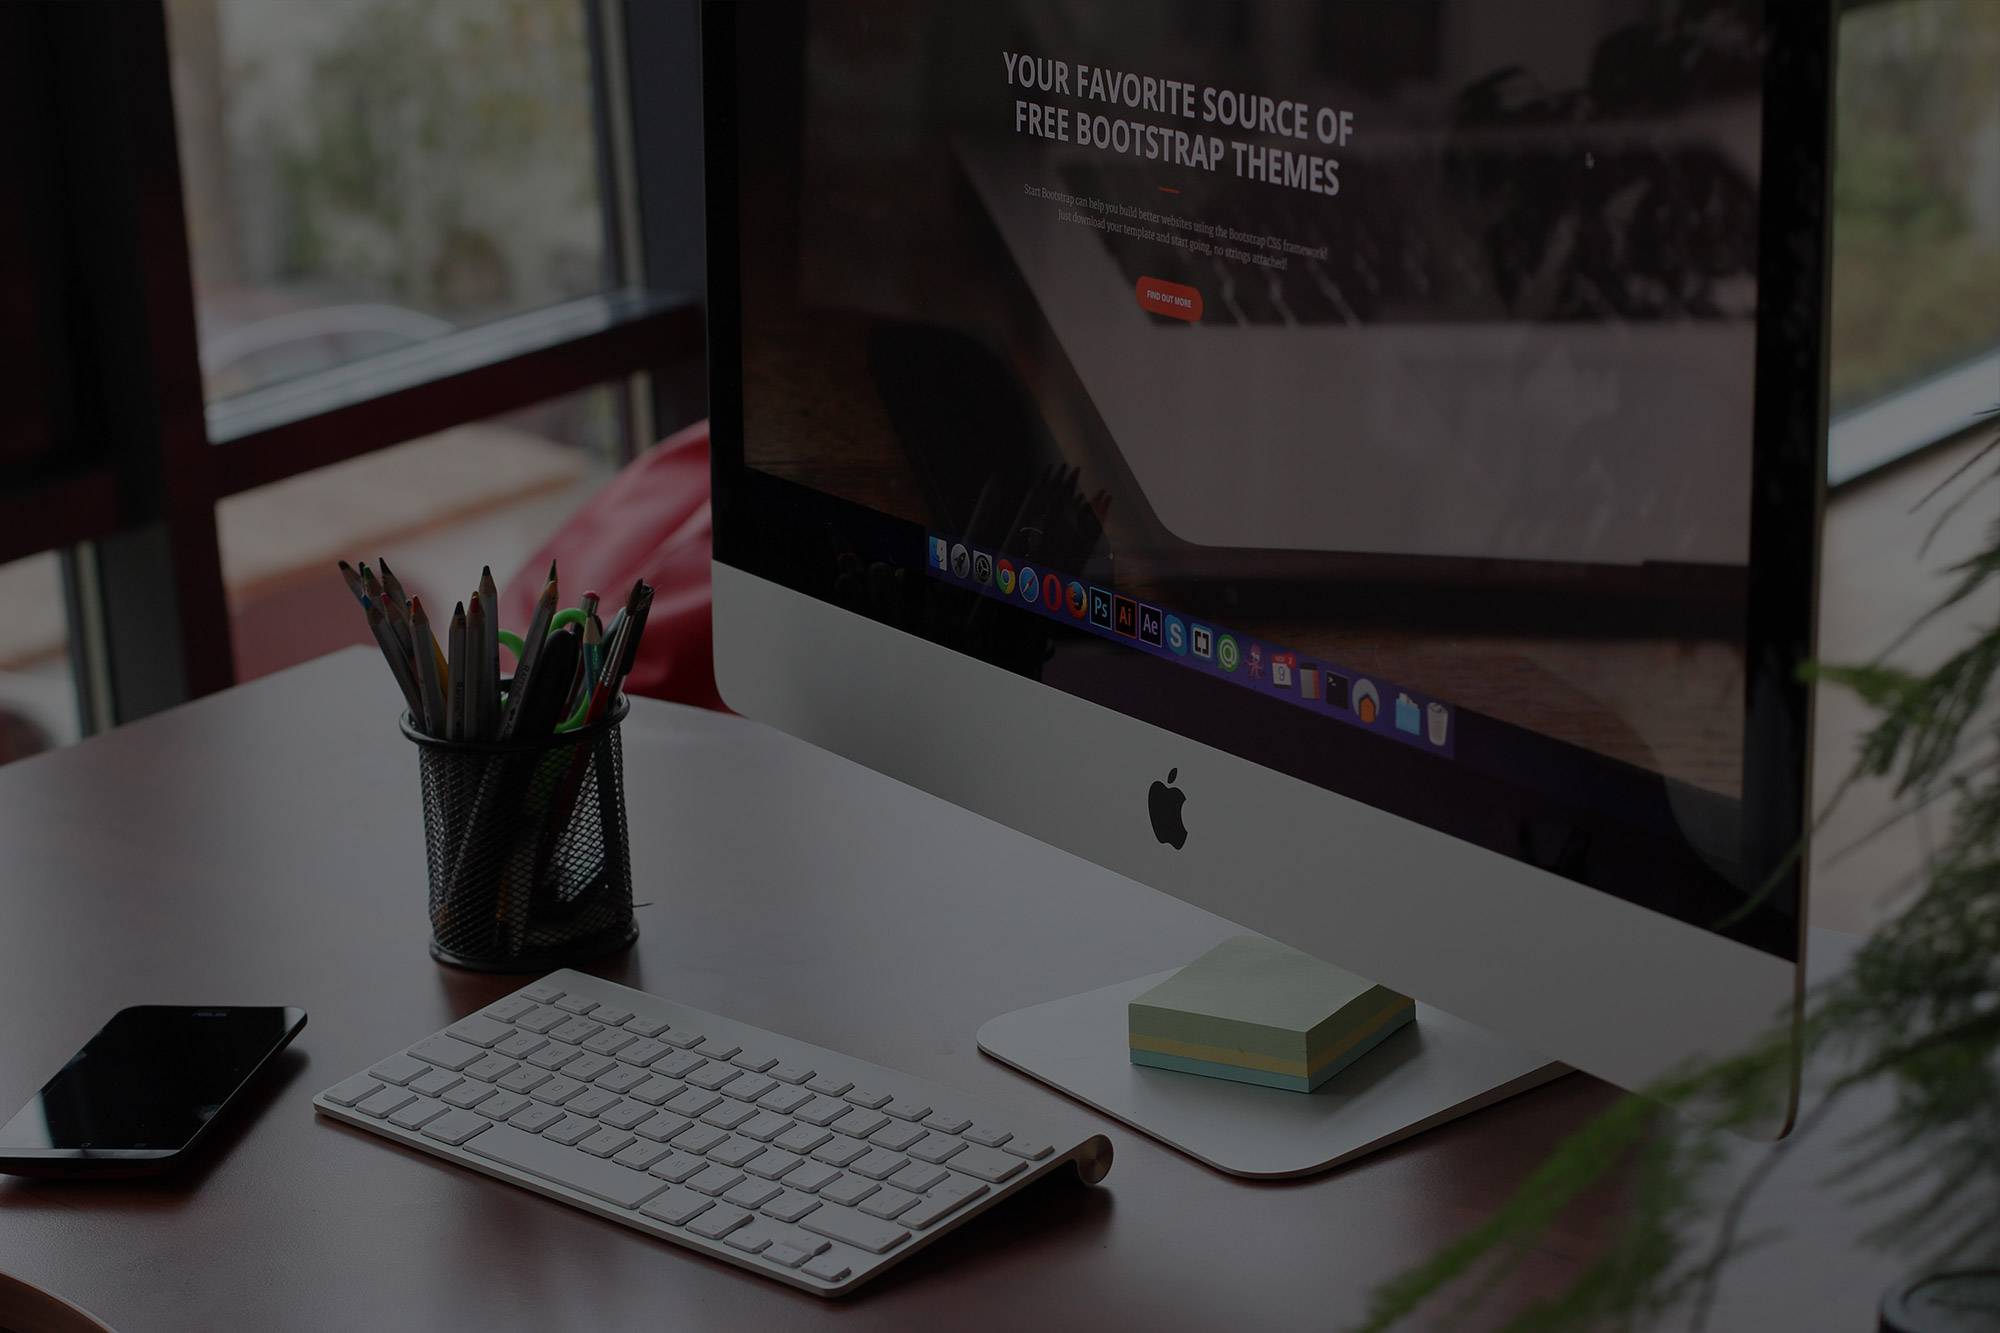
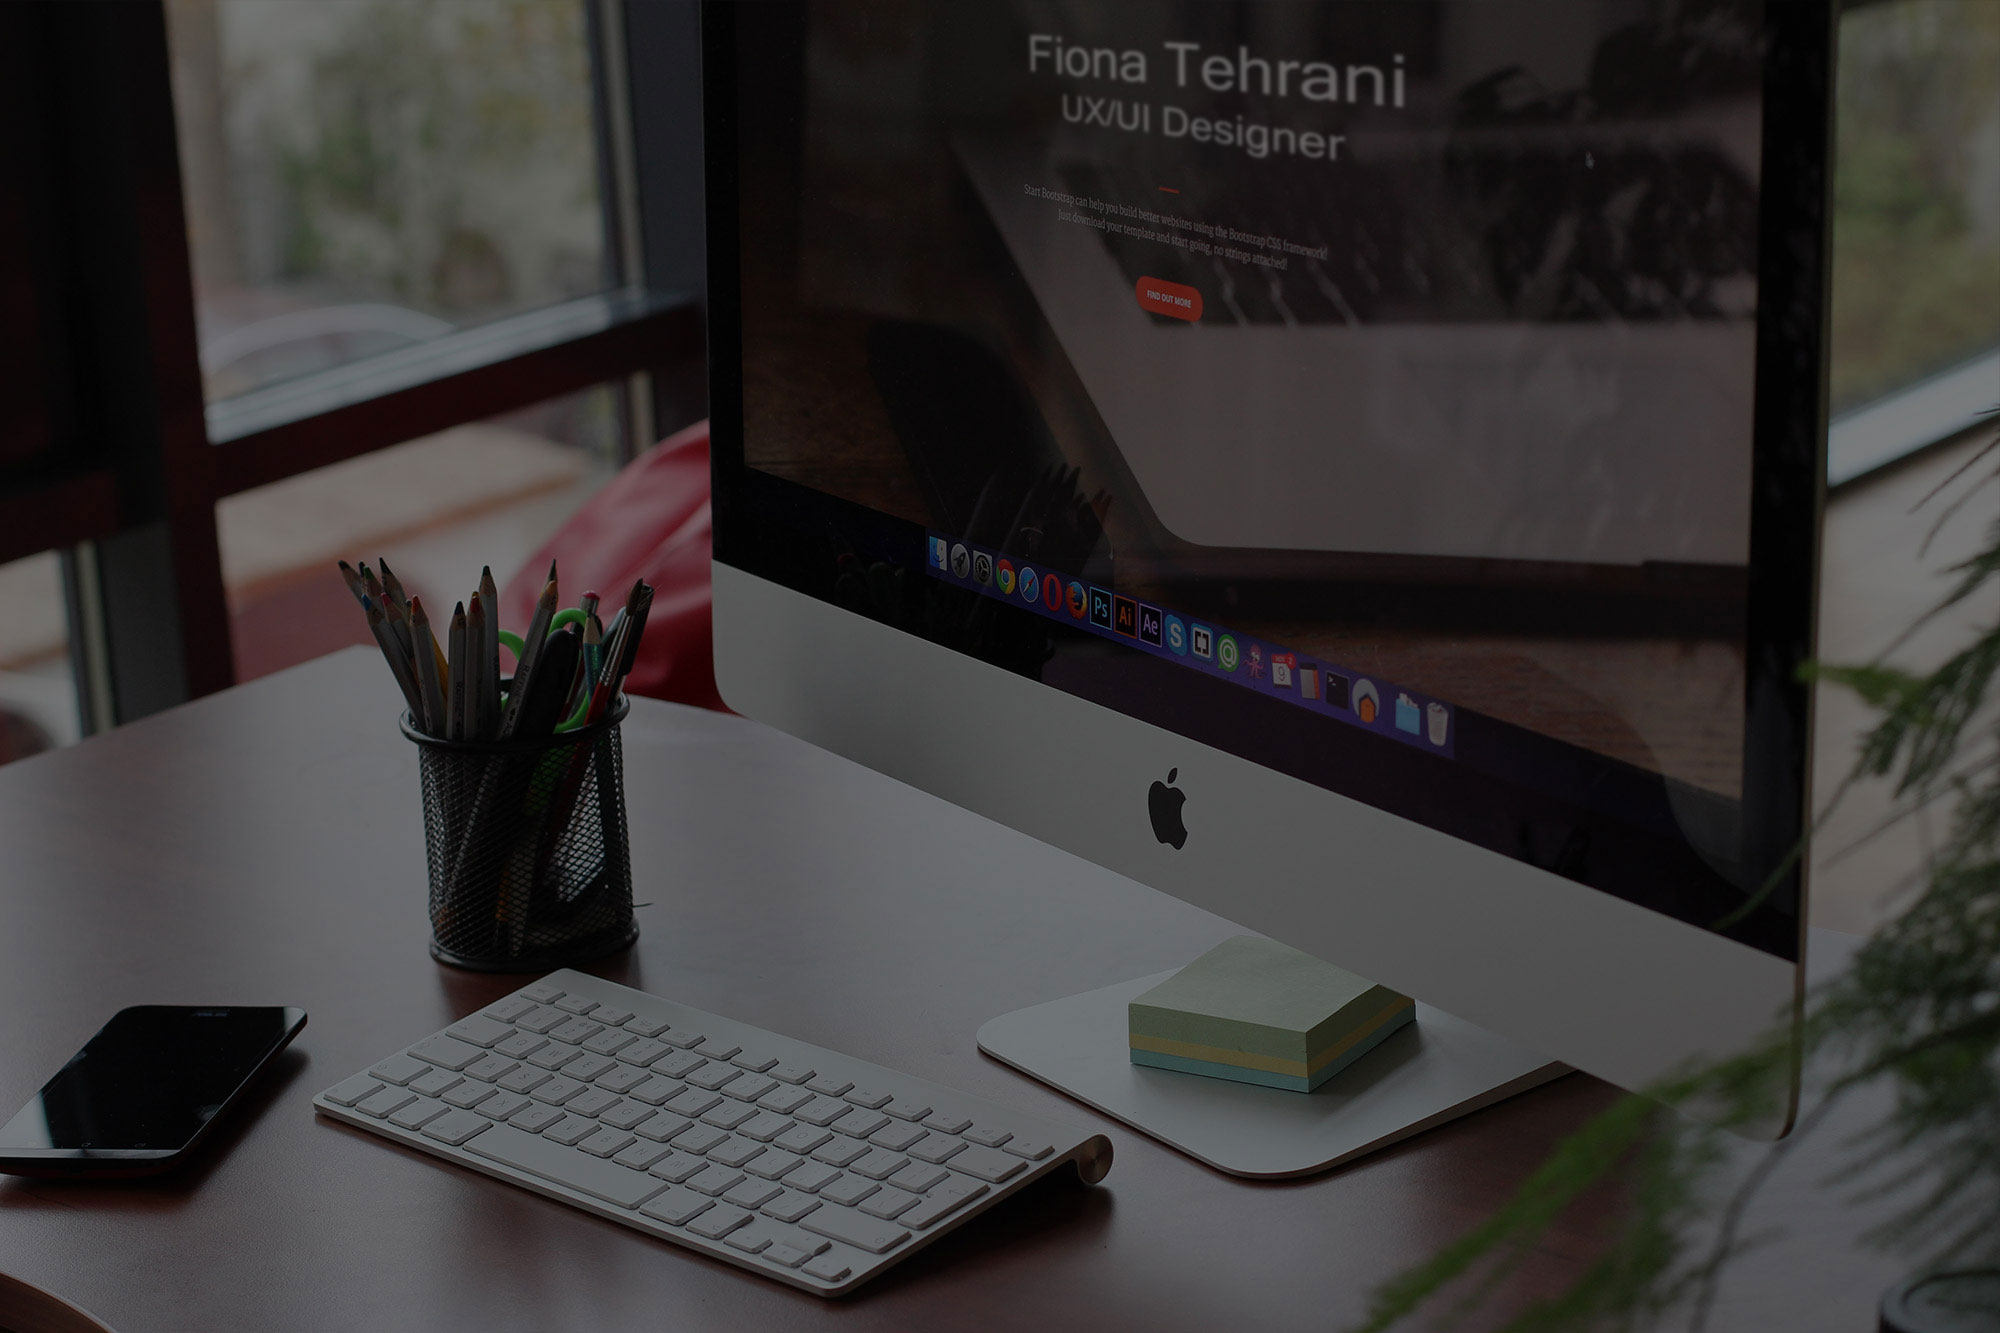
final changes

Changed region(s): [[0.496, 0.0308, 0.713, 0.1538]]

diff --git a/index.html b/index.html
@@ -9,6 +9,7 @@
     <title>Fiona portfolio</title>
     <!-- Bootstrap Core CSS -->
     <link href="assets/css/bootstrap/bootstrap.min.css" rel="stylesheet" type="text/css">
+    <link rel="shortcut icon"  type="image/png" href="assets/img/logo-shortcut-icon.png">
     <!-- Retina.js - Load first for faster HQ mobile images. -->
     <script src="assets/js/plugins/retina/retina.min.js"></script>
     <!-- Font Awesome -->
@@ -99,7 +100,7 @@
         </div>
         <!-- /.container -->
     </nav>
-    <header style="background-image: url('assets/img/bg-header.jpg');">
+    <header>
         <div class="intro-content">
             <img src="assets/img/fiona-logo.png" class="img-responsive img-centered" alt="">
             <div class="brand-name">UI/UX Designer</div>
@@ -116,11 +117,11 @@
                 <img src="assets/img/me.jpg" class="my-photo-circle img-centered" alt="">
                 <h2>Hi, I'm Fiona Tehrani</h2>
                 <hr class="colored">
-                <p>I'm a UX & visual designer that loves to design.</b></p>
+                <p>I'm a UX & visual designer that loves to design.</p>
                 <p>My weapons-of-choice are Photoshop, Axure, Sublime, Bootstrap and Illustrator. My goal is to implement rational designs, employing user-centered methodologies and clean, light CSS/HTML.</p>
             </div>
             <div class="row">
-            <a href="/resume.pdf" class="cv-btn"><i class="fa fa-file-pdf-o"></i> Download my CV</a>
+            <a href="assets/resume.pdf" class="cv-btn"><i class="fa fa-file-pdf-o"></i> Download my CV</a>
             </div>
         </div>
     </section>
@@ -180,7 +181,7 @@
                                 </div>
                             </div>
                         </div>
-                        <div class="portfolio web" data-cat="web" href="#portfolioModal2" data-toggle="modal">
+                        <div class="portfolio web" data-cat="web" href="#portfolioModal5" data-toggle="modal">
                             <div class="portfolio-wrapper">
                                 <img src="assets/img/portfolio/grid/web/1.jpg" alt="">
                                 <div class="caption">
@@ -378,7 +379,7 @@
     </section><!-- /container -->
     <section id="education" class="container education white">
         <div class="row text-center">
-        <h2 class="text-center">My highest educational</h2>
+        <h2 class="text-center">My highest education</h2>
             <hr class="colored-gray">
             <div class="content-box gray-bg">
                 <h4 class="bg-red">Bachelor Degree of Graphic Design, Tehran Art Architecture Azad University</h4>
@@ -521,7 +522,7 @@
                         <div class="col-lg-8 col-lg-offset-2">
                             <h2>Learning online microsite</h2>
                             <hr class="colored">
-                            <p>UX/UI design and coding of this landing page for Open Colleges. This LP was for SEO purposes.</p>
+                            <p>UI design and Front End coding of this microsite for Open Colleges. This microsites is for giving users more information about how study online with Open Colleges works such as Online Campus, support that they can get while they are studying with Open Colleges, etc.</p>
                             <a href="http://www.opencolleges.edu.au/learning-online" target="_blank" class="cv-btn">View it online</a>
                         </div>
                         <div class="col-lg-12">
@@ -558,9 +559,9 @@
                 <div class="container">
                     <div class="row">
                         <div class="col-lg-8 col-lg-offset-2">
-                            <h2>How to effectively Use email</h2>
+                            <h2>Beauty microsite</h2>
                             <hr class="colored">
-                            <p>UX/UI design and coding of this landing page for Open Colleges. This LP was for SEO purposes.</p>
+                            <p>UX/UI design and Front End coding of this microsite for SEO purposes. This microsite is going to be a template in Django for creating other microsites.</p>
                             <a href="/resume.pdf" class="cv-btn">View it online</a>
                         </div>
                         <div class="col-lg-12">
@@ -600,10 +601,10 @@
                             <img src="assets/img/header-brandGuideline.png" class="img-responsive img-centered" alt="">
                         </div>
                         <div style="margin-top: 20px; margin-bottom: 20px" class="col-lg-8 col-lg-offset-2">
-                            <h2>How to effectively Use email</h2>
+                            <h2>Email Etiquette</h2>
                             <hr class="colored">
                             <p>UX/UI design and coding of this landing page for Open Colleges. This LP was for SEO purposes.</p>
-                            <a href="/resume.pdf" class="cv-btn">View it online</a>
+                            <a href="http://www.opencolleges.edu.au/careers/email-etiquette/" class="cv-btn">View it online</a>
                         </div>
                         <div class="col-lg-12">
                             <img src="assets/img/brandGuideline-img1a.jpg" class="img-responsive img-centered" alt="">
@@ -639,10 +640,10 @@
                 <div class="container">
                     <div class="row">
                         <div class="col-lg-8 col-lg-offset-2">
-                            <h2>Beuty microsite</h2>
+                            <h2>Brand Guideline</h2>
                             <hr class="colored">
-                            <p>UX/UI design and coding of this beauty microsite for Open Colleges.<br> This microsite was for SEO purposes.</p>
-                            <a href="/resume.pdf" class="cv-btn">View it online</a>
+                            <p>UX/UI design and Frond End coding of this online Brand Guideline for implementing in Wordpress.</p>
+                            <a href="http://http://brand.wordpress.opencolleges.edu.au/" class="cv-btn">View it online</a>
                         </div>
                         <div class="col-lg-12">
                             <img src="assets/img/beauty-microsite-header.jpg" class="img-responsive img-centered" alt="">
@@ -675,7 +676,7 @@
         </div>
     </div>
     <!-- Example Modal 5 -->
-    <div class="portfolio-modal modal fade bg-usingEmail" id="portfolioModal5" tabindex="-1" role="dialog" aria-hidden="true">
+    <div class="portfolio-modal modal fade bg-lp-design" id="portfolioModal5" tabindex="-1" role="dialog" aria-hidden="true">
         <div class="modal-content">
             <div class="close-modal" data-dismiss="modal">
                 <div class="lr">
@@ -687,22 +688,35 @@
                 <div class="container">
                     <div class="row">
                         <div class="col-lg-8 col-lg-offset-2">
-                            <h2>How to effectively Use email</h2>
+                            <h2>Design of multiple landing pages</h2>
                             <hr class="colored">
-                            <p>UX/UI design and coding of this landing page for Open Colleges. This LP was for SEO purposes.</p>
-                            <a href="/resume.pdf" class="cv-btn">View it online</a>
+                            <p>UX/UI design and coding of different landing page for Open Colleges.</p>
                         </div>
                         <div class="col-lg-12">
-                            <img src="assets/img/header-UsingEmail.jpg" class="img-responsive img-centered" alt="">
+                            <img src="assets/img/landing-pages-photography.jpg" class="lp-design-responsive-img img-centered" alt="">
                         </div>
                         <div class="col-lg-12">
-                            <img src="assets/img/UsingEmail-img2.jpg" class="img-responsive img-centered" alt="">
+                            <p>Design of Photography scholarship landing page</p>
+                            <a href="http://www.opencolleges.edu.au/photography-scholarship" class="cv-btn">View it online</a>
                         </div>
                         <div class="col-lg-12">
-                            <img src="assets/img/UsingEmail-img3.jpg" class="img-responsive img-centered" alt="">
+                            <img src="assets/img/landing-pages-oc.jpg" class="lp-design-responsive-img img-centered" alt="">
                         </div>
                         <div class="col-lg-12">
-                            <img src="assets/img/UsingEmail-img4.jpg" class="img-responsive img-centered" alt="">
+                            <p>UI/UX design and Front End coding of internal website of Open Colleges and implementing it in Wordpress</p>
+                        </div>
+                        <div class="col-lg-12">
+                            <img src="assets/img/landing-pages-blog.jpg" class="lp-design-responsive-img img-centered" alt="">
+                        </div>
+                        <div class="col-lg-12">
+                            <p>UX/UI design of Career blog</p>
+                            <a href="http://www.opencolleges.edu.au/careers/blog" class="cv-btn">View it online</a>
+                        </div>
+                        <div class="col-lg-12">
+                            <img src="assets/img/landing-pages-tafe.jpg" class="lp-design-responsive-img img-centered" alt="">
+                        </div>
+                        <div class="col-lg-12">
+                            <p>UI design of TAFE landing page for generating more leads for the business.</p>
                         </div>
                         <div class="col-lg-8 col-lg-offset-2">
                            <h3>Thanks for watching!</h3>
@@ -726,10 +740,10 @@
                 <div class="container">
                     <div class="row">
                         <div class="col-lg-8 col-lg-offset-2">
-                            <h2>How to effectively Use email</h2>
+                            <h2>eBook landing page and pdf design</h2>
                             <hr class="colored">
-                            <p>UX/UI design and coding of this landing page for Open Colleges. This LP was for SEO purposes.</p>
-                            <a href="/resume.pdf" class="cv-btn">View it online</a>
+                            <p>UX/UI design and front End coding of this landing page for SEO purposes. The eBook has been designed in InDesign. This LP and eBook both are using as template for other eBooks.</p>
+                            <a href="http://www.opencolleges.edu.au/careers/personal-branding-ebook" class="cv-btn">View it online</a>
                         </div>
                         <div class="col-lg-12">
                             <img src="assets/img/ebook-lp.png" class="img-responsive img-centered" alt="">
@@ -762,9 +776,9 @@
                 <div class="container">
                     <div class="row">
                         <div class="col-lg-8 col-lg-offset-2">
-                            <h2>How to effectively Use email</h2>
+                            <h2>Responsive eDM design</h2>
                             <hr class="colored">
-                            <p>UX/UI design and coding of this landing page for Open Colleges. This LP was for SEO purposes.</p>
+                            <p>UX/UI design and coding of all eDMs for Open Colleges. I've also  created the template and content blocks for using in Marketing Cloud which is a platform for sending eDMs.</p>
                         </div>
                         <div class="col-lg-12">
                             <img src="assets/img/eDM-header.jpg" class="img-responsive img-centered" alt="">
@@ -811,9 +825,10 @@
                 <div class="container">
                     <div class="row">
                         <div class="col-lg-8 col-lg-offset-2">
-                            <h2>How to effectively Use email</h2>
+                            <h2>Personal Branding tool</h2>
                             <hr class="colored">
-                            <p>UX/UI design and coding of this landing page for Open Colleges. This LP was for SEO purposes.</p>
+                            <p>UX/UI design and Front End coding of some pages of this project for SEO purposes. Users can use this tool to creat their own Personal Branding page and they can attach it to their resume.</p>
+                            <a href="http://www.opencolleges.edu.au/careers/personal-branding/" class="cv-btn">View it online</a>
                         </div>
                         <div class="col-lg-12">
                             <img src="assets/img/personal-branding-header.jpg" class="img-responsive img-centered" alt="">
@@ -855,9 +870,9 @@
                 <div class="container">
                     <div class="row">
                         <div class="col-lg-8 col-lg-offset-2">
-                            <h2>How to effectively Use email</h2>
+                            <h2>Career website</h2>
                             <hr class="colored">
-                            <p>UX/UI design and coding of this landing page for Open Colleges. This LP was for SEO purposes.</p>
+                            <p>UX/UI design and coding of this landing page for implementing in Django.</p>
                         </div>
                         <div class="col-lg-12">
                             <img src="assets/img/career-header-laptop2.png" class="img-responsive img-centered" alt="">

diff --git a/assets/css/styles.css b/assets/css/styles.css
@@ -284,14 +284,15 @@ header {
   display: block;
   height: auto;
   width: auto;
-  background-color: #222222;
   background: no-repeat center center;
+  background-color: #222222;
   background-attachment: scroll;
   -webkit-background-size: cover;
   -moz-background-size: cover;
   background-size: cover;
   -o-background-size: cover;
   padding: 100px 0;
+  background-image: url('../img/bg-header.jpg');
 }
 header .intro-content {
   color: white;
@@ -1616,6 +1617,21 @@ width:100%;
   background-color: #222222;
   padding: 30px 0px;
   text-align: center;
+}
+/* ==========================================================================
+   Portfolio Modal 5 - landing pages
+   ========================================================================== */
+/* */
+.bg-lp-design {
+  background: #b3bec1;
+  color: #000;
+}
+.lp-design-responsive-img {
+  max-width: 800px;
+  padding-top: 30px;
+}
+.bg-lp-design p, .bg-lp-design h2 {
+  color: #000;
 }
 /* ==========================================================================
    Contact me
